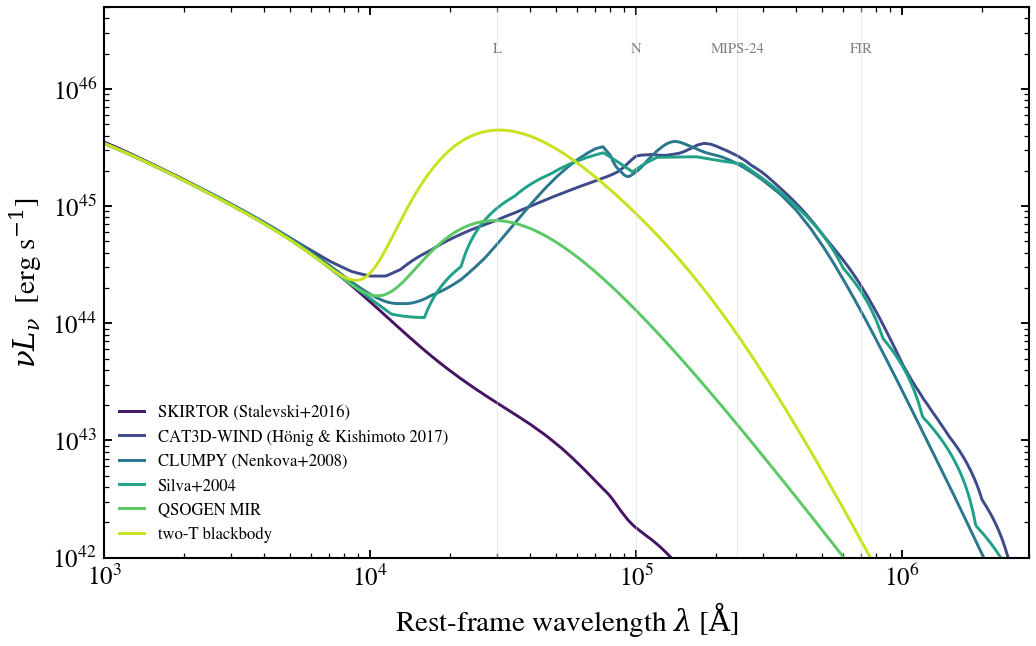
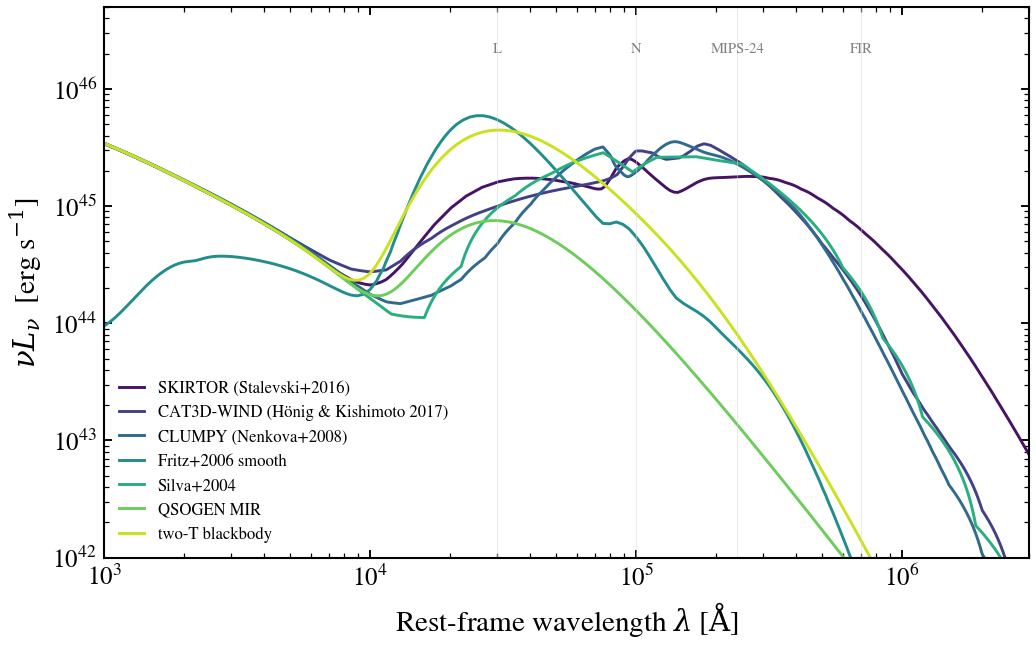
docs(examples): gallery coverage for Fritz+2006 torus + torus screen (#347, #294)
Two AGN gallery additions for the models merged in #658, following the
"extend the matching example, don't bolt on a new section" convention.

- plot_agn_torus_compare.py: add the fritz selector to the torus-library
  panel (6 -> 7 libraries). Fritz+2006 (smooth) now sits alongside
  SKIRTOR (clumpy) — the two CIGALE production tori — so the panel shows
  the smooth-vs-clumpy silicate-feature contrast at 9.7/18 micron.

- plot_torus_screen_disc.py (NEW): AGN unification-by-inclination. A single
  SKIRTOR torus at fixed L_bol, sweeping agn_cos_inc from face-on (Type 1)
  to edge-on (Type 2). Demonstrates the #294 torus screen: the UV/optical
  disc + lines collapse behind the SMC reddening curve along Type-2
  sightlines while the mid-IR torus bump is preserved. Type-1/2 label is
  derived from cos(i) = sin(oa), not hardcoded. Fixed x and y limits.

Both rendered locally (JAX_PLATFORMS=cpu); lint + format clean.

diff --git a/examples/agn/plot_torus_screen_disc.py b/examples/agn/plot_torus_screen_disc.py
@@ -1,0 +1,101 @@
+"""
+AGN unification: the torus screens the disc with inclination
+=============================================================
+
+The composable AGN runner sums disc + broad/narrow lines + FeII + torus,
+but a real dusty torus also *obscures the central engine* along edge-on
+sightlines while its own infrared emission is not re-extinguished by that
+same screen. ``tengri`` applies this inclination-dependent **torus screen**
+automatically whenever the torus is one of the two CIGALE production grids
+(``skirtor`` or ``fritz``); it closes the "disc + torus composed additively,
+no torus screen on disc" gap (#294).
+
+Here a single Stalevski+2016 (``skirtor``) torus reprocesses a fixed
+Kubota & Done (2018) disc at ``log L_bol = 12.5`` (in log L_sun). Only the
+viewing angle ``agn_cos_inc`` changes, sweeping from face-on (Type 1,
+``cos i = 1``) to edge-on (Type 2, ``cos i -> 0``):
+
+- **Type 1 (face-on):** the UV/optical disc + broad lines are seen directly.
+- **Type 2 (edge-on):** the torus rim screens the central engine, so the
+  UV/optical collapses by several dex behind an SMC reddening curve, while
+  the mid-IR torus bump is essentially preserved.
+
+Geometry (``skirtor2016`` convention): the sightline enters the torus when
+``cos i < sin(oa)``, with ``oa`` the half-opening angle from the equator.
+The Type-1/Type-2 transition is a sigmoid in ``cos i`` (C^1, gradient-safe
+for HMC/VI), so a default face-on model is left unchanged.
+"""
+
+import os
+
+os.environ["TF_CPP_MIN_LOG_LEVEL"] = "2"  # suppress XLA/PjRt C++ INFO+WARNING logs
+
+import warnings
+
+import jax
+import matplotlib.pyplot as plt
+import numpy as np
+
+import tengri
+from tengri.analysis.plotting import setup_style
+
+setup_style()
+warnings.filterwarnings("ignore", message=".*BakedInBackend.*")
+
+C_AA_PER_S = 2.998e18
+
+# Inclination sweep: cos i = 1 (face-on, Type 1) -> 0.05 (edge-on, Type 2).
+COS_INC = [1.0, 0.7, 0.5, 0.3, 0.05]
+COLORS = plt.cm.RdYlBu(np.linspace(0.92, 0.05, len(COS_INC)))
+
+SFH = {"type": "const", "*": tengri.FIXED, "log_total_mass": -10.0}
+DUST = {"type": "two_component", "*": tengri.FIXED, "tau_diff": 0.0, "tau_bc": 0.0}
+
+ssp = tengri.load_ssp()
+fig, ax = plt.subplots(figsize=(7.2, 4.6))
+
+# The Type-1/Type-2 boundary is cos(i) = sin(oa); read the torus's default
+# opening angle so the label tracks the actual model rather than a magic number.
+cos_inc_boundary = None
+
+for cos_inc, color in zip(COS_INC, COLORS):
+    model = tengri.SEDModel.build(
+        ssp,
+        sfh=SFH,
+        dust=DUST,
+        agn={
+            "disc": {"type": "multicolor", "*": tengri.FIXED},
+            "torus": {"type": "skirtor", "*": tengri.FIXED},
+            "*": tengri.FIXED,
+            "log_lbol": 12.5,
+            "frac": 1.0,
+            "cos_inc": cos_inc,
+        },
+        redshift=tengri.Fixed(0.05),
+    )
+    p = dict(model.spec.sample(jax.random.PRNGKey(0)))
+    if cos_inc_boundary is None:
+        cos_inc_boundary = float(np.sin(np.radians(float(p["agn_oa_skirtor"]))))
+    out = model.predict_rest_sed(p)
+    wave = np.asarray(out.wavelength)
+    nu_l_nu = C_AA_PER_S / wave * np.asarray(out.sed)
+    incl_deg = np.degrees(np.arccos(cos_inc))
+    kind = "Type 1" if cos_inc > cos_inc_boundary else "Type 2"
+    ax.loglog(wave, nu_l_nu, color=color, lw=1.5, label=rf"$i={incl_deg:.0f}^\circ$ ({kind})")
+
+# Band markers: where the screening bites (UV/optical) vs where it does not (MIR).
+for aa, name in [(3.0e3, "UV"), (5.5e3, "V"), (1.0e5, r"10 $\mu$m")]:
+    ax.axvline(aa, color="0.85", lw=0.4, alpha=0.6)
+    ax.text(aa, 4e46, name, fontsize=7, color="0.5", ha="center", va="top")
+
+ax.set(
+    xlim=(1e3, 3e6),
+    ylim=(1e40, 5e46),
+    xlabel=r"Rest-frame wavelength $\lambda$ [$\mathrm{\AA}$]",
+    ylabel=r"$\nu L_\nu$  [erg s$^{-1}$]",
+    title="Torus screen on the central engine (SKIRTOR, fixed $L_{\\rm bol}$)",
+)
+ax.legend(frameon=False, fontsize=8, loc="lower center", ncol=2)
+
+fig.tight_layout()
+plt.savefig("plot_torus_screen_disc.png", dpi=150, bbox_inches="tight")

diff --git a/examples/agn/plot_agn_torus_compare.py b/examples/agn/plot_agn_torus_compare.py
@@ -2,21 +2,27 @@
 AGN dusty torus: library comparison at fixed L_bol
 =====================================================
 
-Six dusty-torus libraries reprocessing the same accretion-disc
+Seven dusty-torus libraries reprocessing the same accretion-disc
 continuum at fixed ``log L_bol = 12.5`` (in log L_sun) and standard
 inclination. The disc is held at ``multicolor`` (Kubota & Done 2018)
 so the differences in the curves are entirely how each torus library
 geometrically distributes hot grains and re-emits the absorbed UV in
 the MIR.
 
-Torus libraries (the six production selectors under
+Torus libraries (the seven production selectors under
 ``agn.torus.type``):
 - ``skirtor``          — Stalevski+2016 clumpy radiative-transfer grid
 - ``cat3d_wind``       — Hönig & Kishimoto 2017 disc + wind grid
 - ``nenkova``          — Nenkova+2008 clumpy CLUMPY grid
+- ``fritz``            — Fritz+2006 smooth-dust grid (CIGALE/X-CIGALE)
 - ``silva04``          — Silva+2004 smooth two-temperature
 - ``qsogen``           — Temple+2021 empirical NIR/MIR pasted on disc
 - ``two_temperature``  — simple two-blackbody phenomenological torus
+
+``fritz`` and ``skirtor`` are the two CIGALE production tori — smooth
+(Fritz+2006) versus clumpy (Stalevski+2016) — so contrasting them on
+this panel isolates the smooth-vs-clumpy silicate-feature behaviour
+near 9.7 and 18 micron.
 """
 
 import os
@@ -39,6 +45,7 @@ TORI = [
     ("skirtor", "SKIRTOR (Stalevski+2016)"),
     ("cat3d_wind", "CAT3D-WIND (Hönig & Kishimoto 2017)"),
     ("nenkova", "CLUMPY (Nenkova+2008)"),
+    ("fritz", "Fritz+2006 smooth"),
     ("silva04", "Silva+2004"),
     ("qsogen", "QSOGEN MIR"),
     ("two_temperature", "two-T blackbody"),
